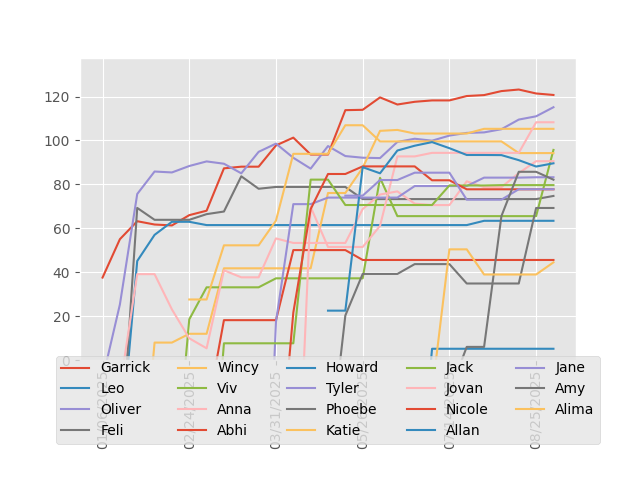
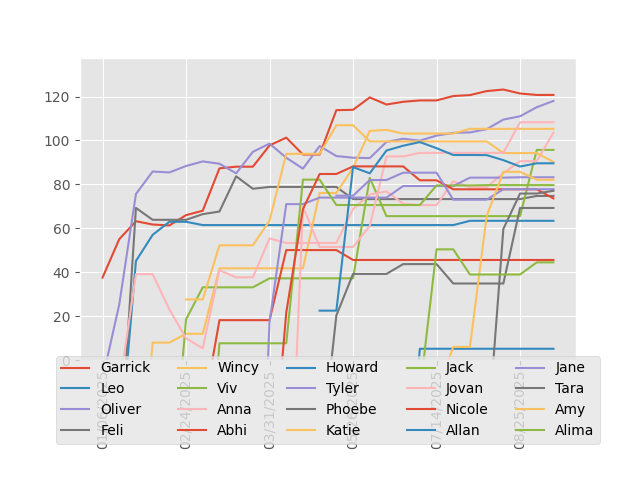
update rankings

diff --git a/README.md b/README.md
@@ -6,14 +6,14 @@
 
 | Player | ELO | Wins | Losses | Win % |
 | --- | --- | --- | --- | --- |
-| Garrick | 120.73 | 45 | 38 | 54% |
-| Oliver | 115.14 | 49 | 51 | 49% |
+| Garrick | 120.76 | 46 | 39 | 54% |
+| Oliver | 118.01 | 51 | 53 | 49% |
 | Jovan | 108.30 | 5 | 7 | 42% |
 | Rachel | 105.59 | 3 | 2 | 60% |
 | Wincy | 105.31 | 14 | 13 | 52% |
+| Anna | 103.59 | 24 | 25 | 49% |
 | Viv | 95.70 | 11 | 10 | 52% |
-| Katie | 94.26 | 13 | 13 | 50% |
-| Anna | 90.56 | 22 | 23 | 49% |
+| Katie | 90.21 | 14 | 16 | 47% |
 | Allan | 89.60 | 10 | 24 | 29% |
 | Nicole(Tyler) | 83.91 | 3 | 2 | 60% |
 | Tyler | 83.25 | 7 | 9 | 44% |
@@ -21,9 +21,9 @@
 | Amy | 82.14 | 6 | 13 | 32% |
 | Jack | 79.66 | 6 | 15 | 29% |
 | Jane | 77.80 | 4 | 12 | 25% |
-| Nicole | 77.76 | 9 | 16 | 36% |
-| Tara | 75.83 | 2 | 7 | 22% |
+| Tara | 77.08 | 3 | 10 | 23% |
 | Feli | 74.73 | 9 | 25 | 26% |
+| Nicole | 73.60 | 10 | 18 | 36% |
 | Phoebe | 69.25 | 3 | 7 | 30% |
 | Serene | 69.04 | 1 | 3 | 25% |
 | Susan | 67.45 | 2 | 4 | 33% |
@@ -46,6 +46,7 @@
 | Summer | 22.96 | 3 | 2 | 60% |
 | Kuki | 22.28 | 0 | 5 | 0% |
 | Bonnie | 20.25 | 1 | 2 | 33% |
+| Mia | 19.76 | 0 | 4 | 0% |
 | Babs | 17.96 | 3 | 1 | 75% |
 | Simon | 7.99 | 0 | 1 | 0% |
 | Howard | 5.12 | 5 | 5 | 50% |
@@ -74,25 +75,26 @@
 
 | Player | ELO | Wins | Losses | Win % |
 | --- | --- | --- | --- | --- |
-| Garrick | 54.72 | 7 | 6 | 54% |
+| Garrick | 53.98 | 7 | 7 | 50% |
+| Oliver | 36.12 | 7 | 7 | 50% |
 | Viv | 35.88 | 3 | 1 | 75% |
-| Oliver | 30.88 | 6 | 7 | 46% |
+| Katie | 29.27 | 3 | 1 | 75% |
 | Jovan | 27.70 | 1 | 1 | 50% |
 | Jane | 21.71 | 2 | 1 | 67% |
-| Katie | 11.91 | 2 | 1 | 67% |
+| Tara | 6.64 | 2 | 0 | 100% |
 | Jack | 5.61 | 1 | 4 | 20% |
 | Nicole | -2.59 | 1 | 2 | 33% |
 | Leo | -27.87 | 2 | 1 | 67% |
 | Alima | -28.59 | 0 | 3 | 0% |
-| Tara | -29.34 | 1 | 0 | 100% |
 | Feli | -29.36 | 1 | 4 | 20% |
 | Serene | -32.38 | 1 | 0 | 100% |
 | Howard | -42.64 | 1 | 0 | 100% |
-| Anna | -65.78 | 0 | 4 | 0% |
+| Anna | -64.74 | 0 | 5 | 0% |
 | Wincy | -67.48 | 0 | 2 | 0% |
 | Eric | -70.13 | 0 | 2 | 0% |
 | Karen | -70.13 | 0 | 2 | 0% |
 | Freya | -70.13 | 0 | 2 | 0% |
+| Mia | -85.32 | 0 | 1 | 0% |
 | Michael | -87.24 | 0 | 1 | 0% |
 | Amy | -100.48 | 0 | 1 | 0% |
 
@@ -101,18 +103,18 @@
 
 | Player | ELO | Wins | Losses | Win % |
 | --- | --- | --- | --- | --- |
-| Oliver | 89.92 | 15 | 5 | 75% |
-| Garrick | 32.00 | 13 | 6 | 68% |
+| Oliver | 101.03 | 16 | 5 | 76% |
+| Garrick | 43.41 | 14 | 6 | 70% |
 | Wincy | 13.50 | 7 | 2 | 78% |
 | Viv | 6.86 | 5 | 1 | 83% |
-| Anna | -6.33 | 8 | 6 | 57% |
-| Nicole | -29.81 | 5 | 1 | 83% |
-| Katie | -38.59 | 3 | 2 | 60% |
+| Nicole | -8.60 | 6 | 1 | 86% |
+| Anna | -13.95 | 8 | 7 | 53% |
 | Karen | -44.66 | 2 | 0 | 100% |
-| Tara | -52.00 | 1 | 1 | 50% |
+| Katie | -48.47 | 3 | 3 | 50% |
 | Summer | -55.10 | 1 | 1 | 50% |
 | Babs | -55.10 | 1 | 1 | 50% |
 | Jack | -62.03 | 2 | 3 | 40% |
+| Tara | -63.03 | 1 | 2 | 33% |
 | Abhi | -65.21 | 3 | 4 | 43% |
 | Sheldon(Ruby) | -66.83 | 1 | 0 | 100% |
 | Heidi | -68.32 | 1 | 2 | 33% |
@@ -135,6 +137,7 @@
 | Jordan | -109.73 | 0 | 1 | 0% |
 | Nicole(Tyler) | -110.88 | 0 | 1 | 0% |
 | Rachel | -110.88 | 0 | 1 | 0% |
+| Mia | -112.20 | 0 | 1 | 0% |
 | Bonnie | -112.60 | 0 | 1 | 0% |
 | Alima | -117.13 | 0 | 1 | 0% |
 | Kevin(Aus) | -117.37 | 0 | 1 | 0% |
@@ -319,16 +322,18 @@
 
 | Player | ELO | Wins | Losses | Win % |
 | --- | --- | --- | --- | --- |
+| Anna | 111.66 | 2 | 1 | 67% |
+| Oliver | 83.35 | 1 | 3 | 25% |
 | Garrick | 63.77 | 1 | 1 | 50% |
-| Oliver | 48.02 | 1 | 1 | 50% |
 | Heidi | 40.09 | 0 | 1 | 0% |
 | Tyler | 34.77 | 0 | 1 | 0% |
-| Tara | 18.46 | 0 | 1 | 0% |
-| Anna | 4.10 | 0 | 1 | 0% |
+| Tara | 14.03 | 0 | 3 | 0% |
 | Lil Su | 4.10 | 0 | 1 | 0% |
 | Allan | -14.04 | 0 | 1 | 0% |
-| Katie | -46.33 | 0 | 2 | 0% |
+| Mia | -14.25 | 0 | 2 | 0% |
+| Katie | -22.01 | 0 | 4 | 0% |
 | Jane | -46.50 | 0 | 1 | 0% |
+| Nicole | -68.15 | 0 | 2 | 0% |
 | Amy | -82.96 | 0 | 1 | 0% |
 | Vittoria | -107.87 | 0 | 1 | 0% |
 | Viv | -107.87 | 0 | 1 | 0% |
